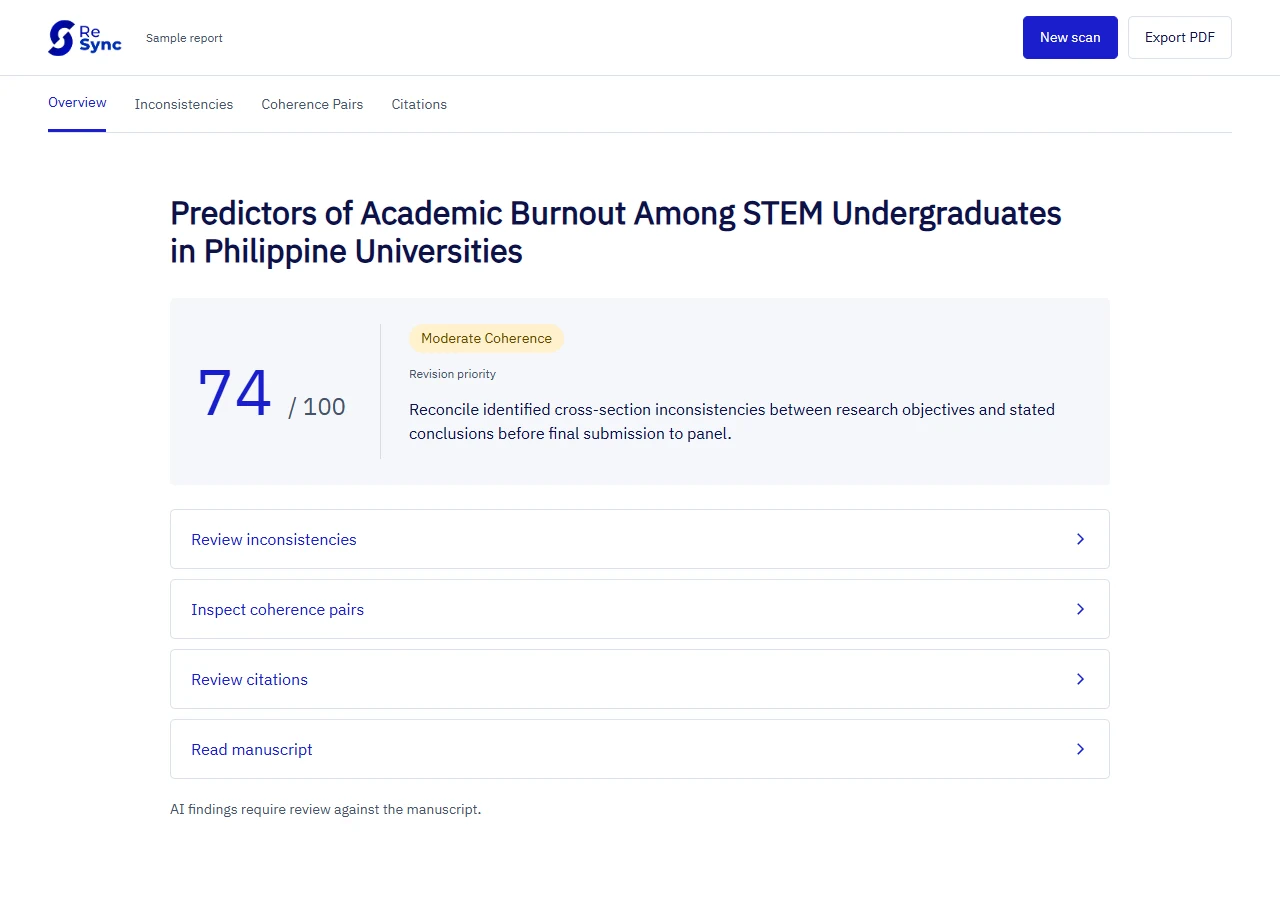
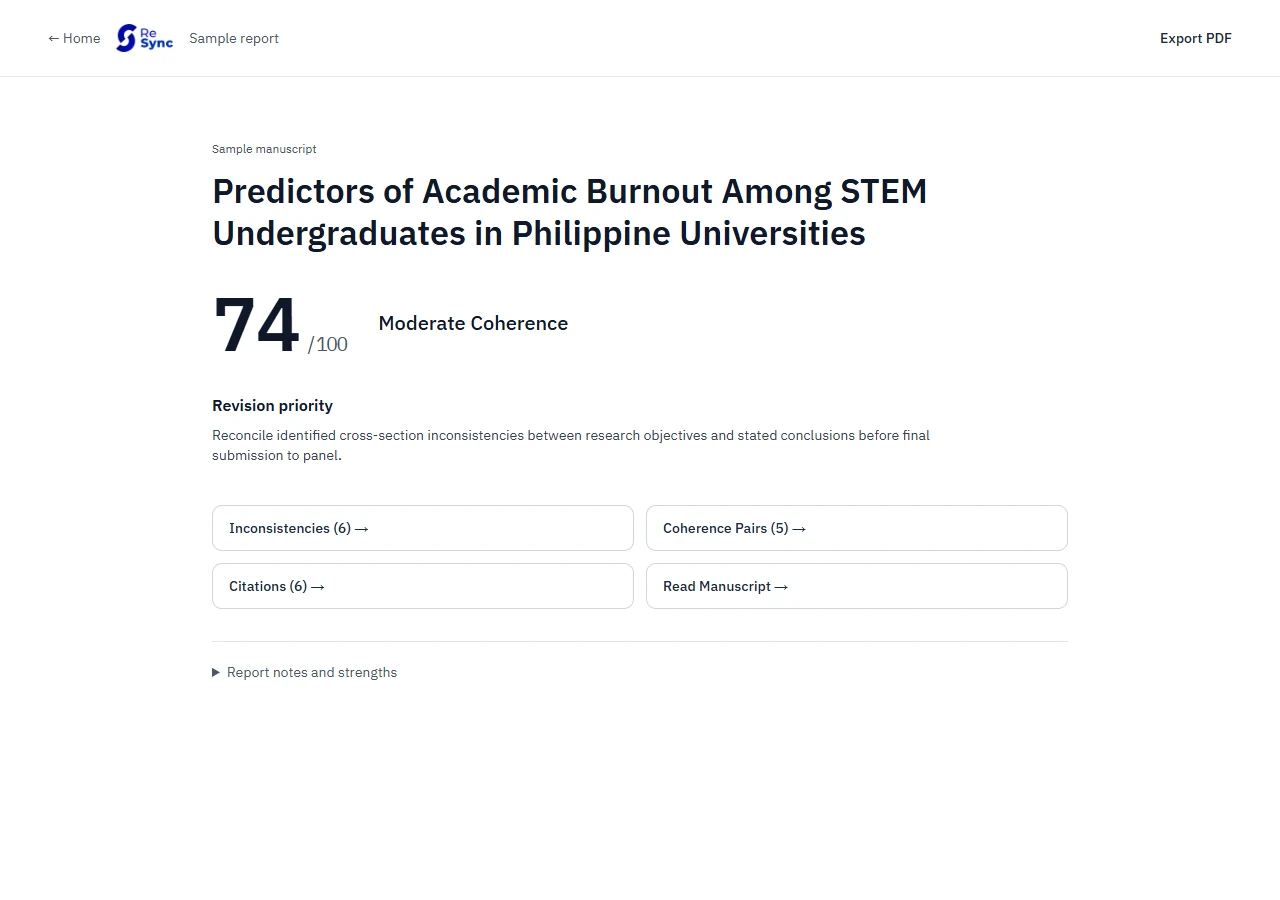
Redesign Sprint F: compressed Results sub-tabs

diff --git a/src/App.tsx b/src/App.tsx
@@ -1567,6 +1567,7 @@ function ResultsScreen({ onNavigate, scan, isSample }: { onNavigate: (s: Screen)
   const [readManuscript, setReadManuscript] = useState(false);
   const scrollPositions = useRef<Record<string, number>>({});
   const returnFocus = useRef<HTMLElement | null>(null);
+  const returnFocusKey = useRef<string | null>(null);
   const headingRef = useRef<HTMLHeadingElement>(null);
   const [filterType, setFilterType] = useState<AssessmentType | "all">("all");
   const [activeTab, setActiveTab] = useState<ActiveResultsTab>('overview');
@@ -1612,6 +1613,7 @@ function ResultsScreen({ onNavigate, scan, isSample }: { onNavigate: (s: Screen)
     middlePaneRef.current.scrollTop = activeId || activePairKey ? 0 : (scrollPositions.current[viewKey] ?? 0);
     if (activeId || activePairKey) headingRef.current?.focus({ preventScroll: true });
     else if (returnFocus.current?.isConnected) returnFocus.current.focus({ preventScroll: true });
+    else if (returnFocusKey.current) document.querySelector<HTMLElement>(`[data-return-key="${CSS.escape(returnFocusKey.current)}"]`)?.focus({ preventScroll: true });
   }, [activeTab, readManuscript, activeId, activePairKey]);
 
   const ROMAN = /^(i|ii|iii|iv|v|vi|vii|viii|ix|x|xi|xii|xiii|xiv|xv|xvi|xvii|xviii|xix|xx)$/i;
@@ -1982,6 +1984,7 @@ function ResultsScreen({ onNavigate, scan, isSample }: { onNavigate: (s: Screen)
     if (activeId || activePairKey) return;
     scrollPositions.current[viewKey] = middlePaneRef.current?.scrollTop ?? 0;
     returnFocus.current = document.activeElement as HTMLElement;
+    returnFocusKey.current = returnFocus.current?.getAttribute('data-return-key');
   }
 
   function navigateReport(tab: ActiveResultsTab, manuscript = false) {
@@ -2498,256 +2501,102 @@ function ResultsScreen({ onNavigate, scan, isSample }: { onNavigate: (s: Screen)
               </div>
               <div id="report-panel" role="tabpanel" aria-labelledby={'report-tab-' + activeTab}>
             {activeTab === 'inconsistencies' && (
-              <div className="space-y-4">
-                <div className="flex items-center justify-between flex-wrap gap-2 px-1">
-                  <p className="text-sm font-sans font-bold uppercase tracking-wider text-gray-500">
-                    {filterType === 'major-issue' ? 'Major Issues' : filterType === 'affected-section' ? 'Affected Sections' : 'All Inconsistencies'} ({visibleInconsistencies.length})
-                  </p>
-                  <div className="flex items-center gap-3">
-                    {(filterType === 'major-issue' || filterType === 'affected-section') && (
-                      <button type="button" onClick={() => setFilterType('all')}
-                        className="text-sm font-bold text-indigo-600 hover:underline cursor-pointer">
-                        Show all ({inconsistenciesCount})
-                      </button>
-                    )}
-                    {visibleInconsistencies.length > 0 && (
-                      <button
-                        type="button"
-                        onClick={toggleAllExpanded}
-                        className="text-sm font-semibold text-gray-600 hover:text-gray-900 border border-gray-200 px-2.5 py-1 rounded-lg bg-white hover:bg-gray-50 transition-all cursor-pointer flex items-center gap-1 shadow-2xs"
-                      >
-                        {allExpanded ? "Collapse All" : "Expand All"}
-                      </button>
-                    )}
-                  </div>
+              <div className="space-y-5">
+                <div className="flex flex-wrap gap-2" aria-label="Finding filters">
+                  {(['all', 'major-issue', 'affected-section'] as const).map(type => (
+                    <button key={type} aria-pressed={filterType === type} onClick={() => applyFilter(type)} className="px-3 py-2 rounded-md border border-gray-300 text-body font-medium text-gray-700 aria-pressed:bg-indigo-50 aria-pressed:border-indigo-700 aria-pressed:text-indigo-800">
+                      {type === 'all' ? 'All' : ST[type].label}
+                    </button>
+                  ))}
                 </div>
-
                 {visibleInconsistencies.length === 0 ? (
-                  <div className="bg-white rounded-2xl border border-gray-200 px-6 py-10 text-center">
-                    <p className="text-sm font-bold text-gray-800 mb-1">No inconsistencies to show</p>
-                    <p className="text-sm text-gray-500">
-                      {inconsistenciesCount === 0
-                        ? 'No inconsistencies were detected across the analyzed sections.'
-                        : 'No findings match the selected filter.'}
-                    </p>
-                  </div>
+                  <p className="text-body text-gray-600">{inconsistenciesCount === 0 ? 'No inconsistencies were detected.' : 'No findings match this filter.'}</p>
                 ) : (
-                  visibleInconsistencies.map((item, idx) => {
-                    const isExpanded = expandedIssueIds.has(item.id);
-                    return (
-                      <div key={item.id}
-                        className={`bg-white rounded-2xl border transition-all ${
-                          activeId === item.id ? `${ST[item.type].border} ring-2 ring-indigo-300 shadow-sm` : 'border-gray-200 hover:border-gray-300'
-                        }`}>
-                        <button
-                          type="button"
-                          onClick={() => {
-                            toggleIssueExpanded(item.id);
-                            setActiveId(prev => prev === item.id ? null : item.id);
-                          }}
-                          className="w-full p-4 sm:p-5 flex items-start justify-between gap-3 text-left cursor-pointer"
-                        >
-                          <div className="flex-1 min-w-0 space-y-1.5">
-                            <div className="flex items-center gap-2 flex-wrap">
-                              <span className={`text-[14px] font-bold px-2 py-0.5 rounded-full border ${ST[item.type].pill}`}>{ST[item.type].label}</span>
-                              <span className="text-sm tabular-nums font-bold text-gray-400">#{idx + 1}</span>
-                              {item.isMissingSection ? (
-                                <span className="text-[14px] font-bold px-2 py-0.5 rounded-full border bg-amber-50 border-amber-200 text-amber-800">
-                                  Missing Section
-                                </span>
-                              ) : (
-                                <span className="text-sm font-semibold" style={{ color: ST[item.type].accentColor }}>{item.section}</span>
-                              )}
+                  <ul className="divide-y divide-gray-200 border-y border-gray-200">
+                    {visibleInconsistencies.map(item => (
+                      <li key={item.id}>
+                        <button data-return-key={item.id} onClick={() => setActiveId(item.id)} className="w-full text-left py-5 flex items-start justify-between gap-4 hover:bg-gray-50">
+                          <div className="space-y-2 min-w-0">
+                            <div className="flex flex-wrap items-center gap-2">
+                              <span className={'text-body px-2 py-0.5 rounded border ' + ST[item.type].pill}>{ST[item.type].label}</span>
+                              <span className="text-body tabular-nums text-gray-600">#{inconsistencyItems.indexOf(item) + 1}</span>
+                              <span className="text-body mono text-gray-600">{item.id}</span>
                             </div>
-                            <h3 className="text-sm font-bold text-gray-900 leading-snug">{item.title}</h3>
+                            <h2 className="text-h3 font-semibold text-gray-900">{item.title}</h2>
+                            <p className="text-body text-gray-600">{item.section}</p>
                           </div>
-                          <div className="shrink-0 p-1 text-gray-400 hover:text-gray-600">
-                            <svg viewBox="0 0 24 24" fill="none" stroke="currentColor" strokeWidth="2" className={`w-4 h-4 transition-transform ${isExpanded ? 'rotate-180' : ''}`}>
-                              <path d="M19 9l-7 7-7-7" />
-                            </svg>
-                          </div>
+                          <span className="text-body text-gray-600" aria-hidden="true">→</span>
                         </button>
-
-                        {isExpanded && (
-                          <div className="px-4 pb-4 sm:px-5 sm:pb-5 pt-0 space-y-3 border-t border-gray-100">
-                            {item.description && <p className="text-[14px] text-gray-700 leading-relaxed mt-3">{item.description}</p>}
-                            {item.conflictsWith && item.conflictQuote && (
-                              <div className="rounded-xl bg-gray-50 border border-gray-200/80 p-3">
-                                <p className="text-[14px] font-sans font-bold uppercase tracking-wider text-gray-500 mb-1">Conflicts with: {item.conflictsWith}</p>
-                                <p className="text-sm text-gray-700 italic leading-relaxed">"{item.conflictQuote}"</p>
-                              </div>
-                            )}
-                            {item.recommendation && (
-                              <div className="rounded-xl bg-indigo-50/60 border border-indigo-100 p-3">
-                                <p className="text-[14px] font-sans font-bold uppercase tracking-wider text-indigo-800 mb-1">Suggested fix</p>
-                                <p className="text-sm text-indigo-950 font-medium leading-relaxed">{item.recommendation}</p>
-                              </div>
-                            )}
-                            {renderFeedback(item)}
-                          </div>
-                        )}
-                      </div>
-                    );
-                  })
+                      </li>
+                    ))}
+                  </ul>
                 )}
               </div>
             )}
 
-            {/* ── Coherence Pairs tab ── */}
             {activeTab === 'strong_coherence' && (
-              <div className="space-y-4">
-                <div className="flex items-center justify-between flex-wrap gap-2 px-1">
-                  <p className="text-sm font-sans font-bold uppercase tracking-wider text-gray-500">
-                    Coherence pairs ({visiblePairs.length}) · target = {PAR_SCORE}
-                  </p>
-                  <div className="flex items-center gap-3">
-                    <button type="button" onClick={() => setShowPairingModal(true)} className="text-sm font-bold text-indigo-600 hover:underline cursor-pointer">How pairing works</button>
-                    {filterType === 'strength' && (
-                      <button type="button" onClick={() => setFilterType('all')}
-                        className="text-sm font-bold text-indigo-600 hover:underline cursor-pointer">
-                        Show all ({pairsCount})
-                      </button>
-                    )}
-                  </div>
+              <div className="space-y-5">
+                <div className="flex flex-wrap items-center gap-2">
+                  {[{type: 'all' as const, label: 'All'}, {type: 'strength' as const, label: 'Meets target'}].map(({type, label}) => (
+                    <button key={type} aria-pressed={filterType === type} onClick={() => setFilterType(type)} className="px-3 py-2 rounded-md border border-gray-300 text-body font-medium text-gray-700 aria-pressed:bg-indigo-50 aria-pressed:border-indigo-700 aria-pressed:text-indigo-800">{label}</button>
+                  ))}
+                  <button onClick={() => setShowPairingModal(true)} className="text-body text-indigo-700 ml-auto">How pairing works</button>
                 </div>
-
                 {visiblePairs.length === 0 ? (
-                  <div className="bg-white rounded-2xl border border-gray-200 px-6 py-10 text-center">
-                    <p className="text-sm font-bold text-gray-800 mb-1">No role pairs to show</p>
-                    <p className="text-sm text-gray-500">
-                      {pairsCount === 0
-                        ? 'No coherence pairs were evaluated for this scan. Required sections may be missing.'
-                        : `No pairs meet the target score of ${PAR_SCORE}.`}
-                    </p>
-                  </div>
+                  <p className="text-body text-gray-600">{pairsCount === 0 ? 'No coherence pairs were evaluated.' : 'No pairs meet the target score.'}</p>
                 ) : (
-                  visiblePairs.map((p, idx) => {
-                    const key = `${p.role_a}__${p.role_b}`;
-                    const isSelected = activePairKey === key;
-                    const score = p.score ?? 0;
-                    const strong = score >= PAR_SCORE;
-                    return (
-                      <button type="button"
-                        key={`${p.role_a}|${p.role_b}|${idx}`}
-                        onClick={() => {
+                  <ul className="divide-y divide-gray-200 border-y border-gray-200">
+                    {visiblePairs.map((pair, index) => (
+                      <li key={pair.role_a + '|' + pair.role_b + index}>
+                        <button data-return-key={pair.role_a + '__' + pair.role_b} onClick={() => {
                           rememberPosition();
                           setActiveIdRaw(null);
-                          setActivePairKey(prev => prev === key ? null : key);
-                        }}
-                        className={`w-full text-left bg-white rounded-2xl border p-5 space-y-3 cursor-pointer transition-all hover:border-indigo-300 ${
-                          isSelected ? 'border-indigo-400 ring-2 ring-indigo-300 shadow-sm' : 'border-gray-200'
-                        }`}
-                      >
-                        <div className="flex items-center justify-between gap-3">
-                          <p className="text-sm font-bold text-gray-900">{formatRoleLabel(p.role_a)} ↔ {formatRoleLabel(p.role_b)}</p>
-                          <span className={`text-[14px] font-black px-2.5 py-1 rounded-full ${strong ? 'bg-emerald-100 text-emerald-700' : 'bg-amber-100 text-amber-800'}`}>
-                            {strong ? 'Strong' : 'Below target'} · {Math.round(score)}
-                          </span>
-                        </div>
-                        <div className="h-1.5 rounded-full bg-gray-100 overflow-hidden">
-                          <div className={`h-full rounded-full ${strong ? 'bg-emerald-500' : 'bg-amber-500'}`} style={{ width: `${Math.max(0, Math.min(100, score))}%` }} />
-                        </div>
-                        <p className="text-[14px] text-gray-500">Weight {Math.round(p.weight * 100)}% of the coherence score</p>
-                        {p.verification && (
-                          <p className={`text-sm leading-relaxed rounded-xl border px-3 py-2 ${
-                            p.verification.alignment === 'superficial' ? 'bg-amber-50 border-amber-200 text-amber-900' : 'bg-emerald-50 border-emerald-200 text-emerald-900'
-                          }`}>
-                            <span className="font-bold capitalize">{p.verification.alignment} alignment.</span> {p.verification.note}
-                          </p>
-                        )}
-                      </button>
-                    );
-                  })
+                          setActivePairKey(pair.role_a + '__' + pair.role_b);
+                        }} className="w-full text-left py-5 space-y-3 hover:bg-gray-50">
+                          <div className="flex items-start justify-between gap-4 text-body">
+                            <h2 className="text-h3 font-semibold text-gray-900">{formatRoleLabel(pair.role_a)} ↔ {formatRoleLabel(pair.role_b)}</h2>
+                            <span className="tabular-nums shrink-0 text-gray-800">{pair.included === false ? 'Not evaluated' : (pair.score ?? 'Unavailable')}</span>
+                          </div>
+                          <div className="h-1.5 bg-gray-100 rounded overflow-hidden" aria-hidden="true">
+                            <div className="h-full bg-indigo-600" style={{width: `${pair.included === false ? 0 : Math.max(0, Math.min(100, pair.score ?? 0))}%`}} />
+                          </div>
+                        </button>
+                      </li>
+                    ))}
+                  </ul>
                 )}
               </div>
             )}
 
-            {/* ── Citations tab ── */}
             {activeTab === 'citations' && (
-              <div className="space-y-4">
-                <div className="grid grid-cols-2 sm:grid-cols-4 gap-3">
-                  {(['live', 'restricted', 'neutral', 'dead'] as Citation["status"][]).map(s => {
-                    const isSelected = citationFilter === s;
-                    return (
-                      <button
-                        key={s}
-                        type="button"
-                        onClick={() => setCitationFilter(prev => prev === s ? null : s)}
-                        className={`rounded-xl border px-4 py-3 text-left transition-all cursor-pointer ${
-                          isSelected
-                            ? "bg-indigo-50/70 border-indigo-500 ring-2 ring-indigo-500/20 shadow-xs"
-                            : "bg-white border-gray-200 hover:border-gray-300"
-                        }`}
-                      >
-                        <div className="flex items-center justify-between">
-                          <p className="text-[14px] font-sans font-bold uppercase tracking-wider text-gray-400">{CITE_BADGE[s].label}</p>
-                          {isSelected && (
-                            <span className="text-[14px] font-bold text-indigo-700 bg-indigo-100 px-1.5 py-0.5 rounded">
-                              Active
-                            </span>
-                          )}
-                        </div>
-                        <p className="text-xl font-black text-gray-900 mt-0.5">{citeCount(s)}</p>
-                      </button>
-                    );
-                  })}
+              <div className="space-y-5">
+                <div className="flex flex-wrap gap-2" aria-label="Citation filters">
+                  <button aria-pressed={!citationFilter} onClick={() => setCitationFilter(null)} className="px-3 py-2 rounded-md border border-gray-300 text-body font-medium text-gray-700 aria-pressed:bg-indigo-50 aria-pressed:border-indigo-700 aria-pressed:text-indigo-800">All</button>
+                  {(['live', 'restricted', 'neutral', 'dead'] as const).map(status => (
+                    <button key={status} aria-pressed={citationFilter === status} onClick={() => setCitationFilter(status)} className="px-3 py-2 rounded-md border border-gray-300 text-body font-medium text-gray-700 aria-pressed:bg-indigo-50 aria-pressed:border-indigo-700 aria-pressed:text-indigo-800">{CITE_BADGE[status].label} <span className="tabular-nums">{citeCount(status)}</span></button>
+                  ))}
                 </div>
-
-                {citationFilter && (
-                  <div className="flex items-center justify-between px-3.5 py-2 bg-indigo-50/60 border border-indigo-100 rounded-xl text-sm">
-                    <span className="text-indigo-950 font-medium">
-                      Filtering by: <strong className="font-bold uppercase tracking-wider">{CITE_BADGE[citationFilter].label}</strong> ({displayedCitations.length} of {citationsCount})
-                    </span>
-                    <button
-                      type="button"
-                      onClick={() => setCitationFilter(null)}
-                      className="text-sm font-bold text-indigo-700 hover:underline cursor-pointer"
-                    >
-                      Show All
-                    </button>
-                  </div>
-                )}
-
                 {displayedCitations.length === 0 ? (
-                  <div className="bg-white rounded-2xl border border-gray-200 px-6 py-10 text-center">
-                    <p className="text-sm font-bold text-gray-800 mb-1">
-                      {citationFilter ? `No ${CITE_BADGE[citationFilter].label.toLowerCase()} citations` : "No citations to show"}
-                    </p>
-                    <p className="text-sm text-gray-500 mb-3">
-                      {citationFilter
-                        ? `No citations with status "${CITE_BADGE[citationFilter].label}" were found.`
-                        : `No citations were detected in this manuscript (${scan?.citations_audited ?? 0} sources audited).`}
-                    </p>
-                    {citationFilter && (
-                      <button
-                        type="button"
-                        onClick={() => setCitationFilter(null)}
-                        className="text-sm font-bold text-indigo-600 hover:underline cursor-pointer"
-                      >
-                        Show all citations
-                      </button>
-                    )}
-                  </div>
+                  <p className="text-body text-gray-600">{citationFilter ? 'No citations match this filter.' : `No citations detected (${scan?.citations_audited ?? 0} sources audited).`}</p>
                 ) : (
-                  <div className="space-y-2">
-                    {displayedCitations.map((cite, ci) => (
-                      <div key={cite.id} className={`flex items-start gap-3 px-4 py-3 rounded-xl border ${CITE_BADGE[cite.status].row}`}>
-                        <span className="text-[14px] tabular-nums font-bold text-gray-300 mt-0.5 w-5 shrink-0">{ci + 1}</span>
-                        <div className="flex-1 min-w-0">
-                          {cite.title && <p className="text-sm font-bold text-gray-900 mb-0.5 leading-snug">{cite.title}</p>}
-                          <p className="text-[14px] text-gray-800 leading-snug">
-                            {cite.authors && <span className="font-medium mr-1">{cite.authors}.</span>}
-                            {cite.year && <span className="text-gray-500 mr-1">({cite.year}).</span>}
-                            {cite.ref}
-                          </p>
-                          {cite.url && (/^https?:\/\//i.test(cite.url)
-                            ? <a href={cite.url} target="_blank" rel="noopener noreferrer" className="text-sm mono truncate mt-1 block text-indigo-600 hover:underline">{cite.url}</a>
-                            : <p className="text-[12px] meta mono truncate mt-1 text-gray-400">{cite.url}</p>)}
+                  <div className="divide-y divide-gray-200 border-y border-gray-200">
+                    {displayedCitations.map(cite => (
+                      <details key={cite.id} className="py-4 text-body text-gray-800">
+                        <summary className="cursor-pointer">
+                          <span className="inline-flex flex-wrap items-center gap-2 ml-2">
+                            <span className="tabular-nums text-gray-600">{localCitations.indexOf(cite) + 1}.</span>
+                            <span className="font-medium">{cite.authors ? `${cite.authors}${cite.year ? ` (${cite.year})` : ''}` : (cite.ref.match(/^.*?\(\d{4}[a-z]?\)/)?.[0] || cite.ref.slice(0, 90) || cite.title || 'Reference')}</span>
+                            <span className={'px-2 py-0.5 rounded ' + CITE_BADGE[cite.status].badge}>{CITE_BADGE[cite.status].label}</span>
+                          </span>
+                        </summary>
+                        <div className="pt-4 pl-5 space-y-3">
+                          {cite.title && <h2 className="text-h3 font-semibold">{cite.title}</h2>}
+                          <p>{cite.ref}</p>
+                          {cite.url && (/^https?:\/\//i.test(cite.url) ? (
+                            <a href={cite.url} target="_blank" rel="noopener noreferrer" className="block mono text-body break-all text-indigo-700 underline">{cite.url}</a>
+                          ) : <p className="mono break-all">{cite.url}</p>)}
                         </div>
-                        <span className={`shrink-0 px-2.5 py-1 rounded-full text-[14px] font-bold ${CITE_BADGE[cite.status].badge}`}>
-                          {CITE_BADGE[cite.status].label}
-                        </span>
-                      </div>
+                      </details>
                     ))}
                   </div>
                 )}
